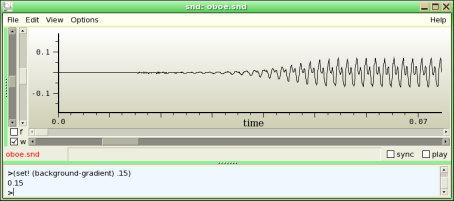
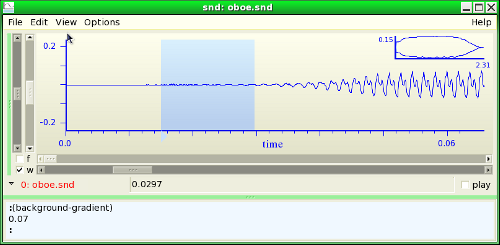
bugs

diff --git a/grfsnd.html b/grfsnd.html
@@ -970,7 +970,6 @@ latter are (configure --help):
 
 <tr><td colspan=2 bgcolor="#EEFDEE">Library choices</td><td></td><td></td></tr>
 <tr><td></td><td>--with-gsl</td><td></td><td>use GSL (for Chebyshev window), default: yes if local C does not support complex trig</td></tr>
-<tr><td></td><td>--with-static-gsl</td><td></td><td>use libgsl.a (only for obsolete RPM stuff)</td></tr>
 <tr><td></td><td>--with-fftw</td><td></td><td>use fftw, default: yes; fallback fft is built-in</td></tr>
 <tr><td></td><td>--with-gmp</td><td></td><td>use gmp, mpfr, and mpc to implement multiprecision arithmetic (default: no)</td></tr>
 <tr><td></td><td>--with-fam</td><td></td><td>use libfam (Gamin), default: yes; fallback is polling via <a href="extsnd.html#autoupdateinterval">auto-update-interval</a></td></tr>

diff --git a/extsnd.html b/extsnd.html
@@ -13157,7 +13157,7 @@ of FractInt's royal colormap):
 <tr><td colspan=2 bgcolor="#f2f4ff">
 <code><a class=def name="backgroundgradient">background-gradient</a></code>
 </td></tr><tr><td></td><td>
-<p>In Gtk+Cairo versions of Snd, this is the amount of background color gradient in the channel graphs (0.0, the default, means
+<p>In Gtk versions of Snd, this is the amount of background color gradient in the channel graphs (0.0, the default, means
 no gradient).
 </p>
 <img src="pix/bggrad.png" alt="graph with background gradient" vspace=10>

diff --git a/snd.html b/snd.html
@@ -383,7 +383,9 @@ highlighted portion becomes a
 'selection' that you can play, delete, or mix elsewhere.
 If you place the mouse toward the top of the graph at the selection
 boundary, the cursor changes to a double-arrow, and you can drag the
-boundary.
+boundary.  There's a triangular area beneath the x axis at the 
+start of the selection.  Click it to play (or stop playing)
+the selected portion.
 </p>
 
 <p>You'll

diff --git a/snd-gsnd.c b/snd-gsnd.c
@@ -1718,6 +1718,34 @@ snd_info *add_sound_window(char *filename, read_only_t read_only, file_info *hdr
 
       /* -------- NAME FIELDS -------- */
 
+#if 0
+      /* looks cluttered */
+      {
+	GtkWidget *close_button, *minmax_button;
+
+	close_button = gtk_button_new();
+	gtk_button_set_relief(GTK_BUTTON(close_button), GTK_RELIEF_NONE);
+	gtk_button_set_image(GTK_BUTTON(close_button), gtk_image_new_from_stock(GTK_STOCK_CLOSE, GTK_ICON_SIZE_MENU));
+	gtk_box_pack_start(GTK_BOX(NAME_HBOX(sp)), close_button, false, false, 2);
+	gtk_widget_show(close_button);
+
+	minmax_button = gtk_button_new();
+	gtk_button_set_relief(GTK_BUTTON(minmax_button), GTK_RELIEF_NONE);
+	gtk_button_set_image(GTK_BUTTON(minmax_button), gtk_image_new_from_stock(GTK_STOCK_REMOVE, GTK_ICON_SIZE_MENU));
+	gtk_box_pack_start(GTK_BOX(NAME_HBOX(sp)), minmax_button, false, false, 2);
+	gtk_widget_show(minmax_button);
+      }
+
+      /* how to close all but the name box? */
+      {
+	GtkWidget *expander;
+	expander = gtk_expander_new("");
+	gtk_expander_set_expanded(GTK_EXPANDER(expander), true);
+	gtk_box_pack_start(GTK_BOX(NAME_HBOX(sp)), expander, false, false, 2);
+	gtk_widget_show(expander);
+      }
+#endif
+
       NAME_EVENT_BOX(sp) = gtk_event_box_new();
       gtk_box_pack_start(GTK_BOX(NAME_HBOX(sp)), NAME_EVENT_BOX(sp), false, false, 5);
       gtk_widget_show(NAME_EVENT_BOX(sp));

diff --git a/snd-xmenu.c b/snd-xmenu.c
@@ -137,11 +137,9 @@ static void edit_redo_callback(Widget w, XtPointer info, XtPointer context) {red
 static void edit_menu_update_1(Widget w, XtPointer info, XtPointer context) {edit_menu_update();}
 
 
-static bool selection_play_stop = false;
-
 static void edit_play_callback(Widget w, XtPointer info, XtPointer context) 
 {
-  if (selection_play_stop)
+  if (ss->selection_play_stop)
     {
       stop_playing_all_sounds(PLAY_BUTTON_UNSET);
       reflect_play_selection_stop(); /* if there was an error, stop_playing might not remember to clear this */
@@ -149,7 +147,7 @@ static void edit_play_callback(Widget w, XtPointer info, XtPointer context)
   else
     {
       set_menu_label(edit_play_menu, _("Stop"));
-      selection_play_stop = true;
+      ss->selection_play_stop = true;
       play_selection(IN_BACKGROUND);
     }
 }
@@ -158,7 +156,7 @@ static void edit_play_callback(Widget w, XtPointer info, XtPointer context)
 void reflect_play_selection_stop(void)
 {
   set_menu_label(edit_play_menu, _("Play Selection"));
-  selection_play_stop = false;
+  ss->selection_play_stop = false;
 }
 
 

diff --git a/snd-gmenu.c b/snd-gmenu.c
@@ -120,12 +120,10 @@ static void edit_select_all_callback(GtkWidget *w, gpointer info) {select_all(cu
 static void edit_undo_callback(GtkWidget *w, gpointer info) {undo_edit_with_sync(current_channel(), 1);}
 static void edit_redo_callback(GtkWidget *w, gpointer info) {redo_edit_with_sync(current_channel(), 1);}
 
-static bool selection_play_stop = false;
-
 
 static void edit_play_callback(GtkWidget *w, gpointer info) 
 {
-  if (selection_play_stop)
+  if (ss->selection_play_stop)
     {
       stop_playing_all_sounds(PLAY_BUTTON_UNSET);
       reflect_play_selection_stop();
@@ -133,7 +131,7 @@ static void edit_play_callback(GtkWidget *w, gpointer info)
   else
     {
       set_menu_label(edit_play_menu, _("Stop"));
-      selection_play_stop = true;
+      ss->selection_play_stop = true;
       play_selection(IN_BACKGROUND);
     }
 }
@@ -142,7 +140,7 @@ static void edit_play_callback(GtkWidget *w, gpointer info)
 void reflect_play_selection_stop(void)
 {
   set_menu_label(edit_play_menu, _("Play Selection"));
-  selection_play_stop = false;
+  ss->selection_play_stop = false;
 }
 
 

diff --git a/snd-gutils.c b/snd-gutils.c
@@ -1142,10 +1142,6 @@ char *slist_selection(slist *lst)
  *       superimposed chans flicker a lot
  *       hide controls + listener doesn't
  *       if combined, initial drag of mix does not reflect drag until button release
- *       perhaps add a way to add/delete the center (y) slider
- *       perhaps an x=close icon on the far left of the name box? (use the window decorations?) /usr/share/themes/Simple/metacity-1/*.png (gtk_image_new_from_file)
- *         and save? undo/redo? play as icon (and others?) play-selection et al?
- *       [unite sync(CONNECT|DISCONNECT?) MEDIA_PLAY|STOP LEAVE_FULLSCREEN(REMOVE?)|FULLSCREEN CLOSE || SAVE REDO UNDO if selection: CUT
- *         perhaps a wave icon like Snd's and a spectrum?
  *       mix tag and waveform are sometimes red now? and 1st drag sometimes doesn't update continuously
+ *       perhaps play triangle with name on top, as in mark or use the mark style entirely?
  */

diff --git a/snd-chn.c b/snd-chn.c
@@ -5107,7 +5107,16 @@ void graph_button_press_callback(chan_info *cp, int x, int y, int key_state, int
       if ((selection_is_active_in_channel(cp)) &&
 	  (hit_selection_triangle(cp, x, y)))
 	{
-	  play_selection(IN_BACKGROUND);
+	  if (ss->selection_play_stop)
+	    {
+	      stop_playing_all_sounds(PLAY_BUTTON_UNSET);
+	      reflect_play_selection_stop();
+	    }
+	  else 
+	    {
+	      ss->selection_play_stop = true;
+	      play_selection(IN_BACKGROUND);
+	    }
 	  return;
 	}
       mouse_mark = hit_mark(cp, x, y, key_state);

diff --git a/snd-mix.c b/snd-mix.c
@@ -2818,7 +2818,10 @@ static XEN g_set_mix_name(XEN n, XEN val)
   XEN_ASSERT_TYPE(XEN_STRING_P(val) || XEN_FALSE_P(val), val, XEN_ARG_2, S_setB S_mix_name, "a string");
   id = XEN_MIX_TO_C_INT(n);
   if (mix_exists(id))
-    mix_set_name_from_id(id, (XEN_STRING_P(val) ? XEN_TO_C_STRING(val) : NULL));
+    {
+      mix_set_name_from_id(id, (XEN_STRING_P(val) ? XEN_TO_C_STRING(val) : NULL));
+      update_graph(mix_chan_info_from_id(id));
+    }
   else return(snd_no_such_mix_error(S_setB S_mix_name, n));
   return(val);
 }

diff --git a/snd.c b/snd.c
@@ -459,6 +459,7 @@ static void snd_gsl_error(const char *reason, const char *file, int line, int gs
   ss->sound_sync_max = 0;
   ss->stopped_explicitly = false;     /* C-g sets this flag so that we can interrupt various loops */
   ss->checking_explicitly = false;
+  ss->selection_play_stop = false;
   ss->reloading_updated_file = 0;
   ss->selected_sound = NO_SELECTION;
   ss->sounds = (snd_info **)calloc(ss->max_sounds, sizeof(snd_info *));

diff --git a/snd-1.h b/snd-1.h
@@ -427,7 +427,7 @@ typedef struct snd_state {
   print_choice_t print_choice;
   snd_apply_t apply_choice;
   bool gl_has_double_buffer;
-  bool stopped_explicitly, checking_explicitly;
+  bool stopped_explicitly, checking_explicitly, selection_play_stop;
   int reloading_updated_file;
   int init_window_width, init_window_height;
   int init_window_x, init_window_y;

diff --git a/snd-select.c b/snd-select.c
@@ -637,8 +637,9 @@ static void cp_redraw_selection(chan_info *cp)
 		     ap->y_axis_y1,
 		     cp->old_x1 - cp->old_x0,
 		     (int)(ap->y_axis_y0 - ap->y_axis_y1));
+
       if (ap->losamp < beg)
-	show_selection_triangle(cp, ax, x0);
+	show_selection_triangle(cp, ax, cp->old_x0);
     }
 #endif
 
